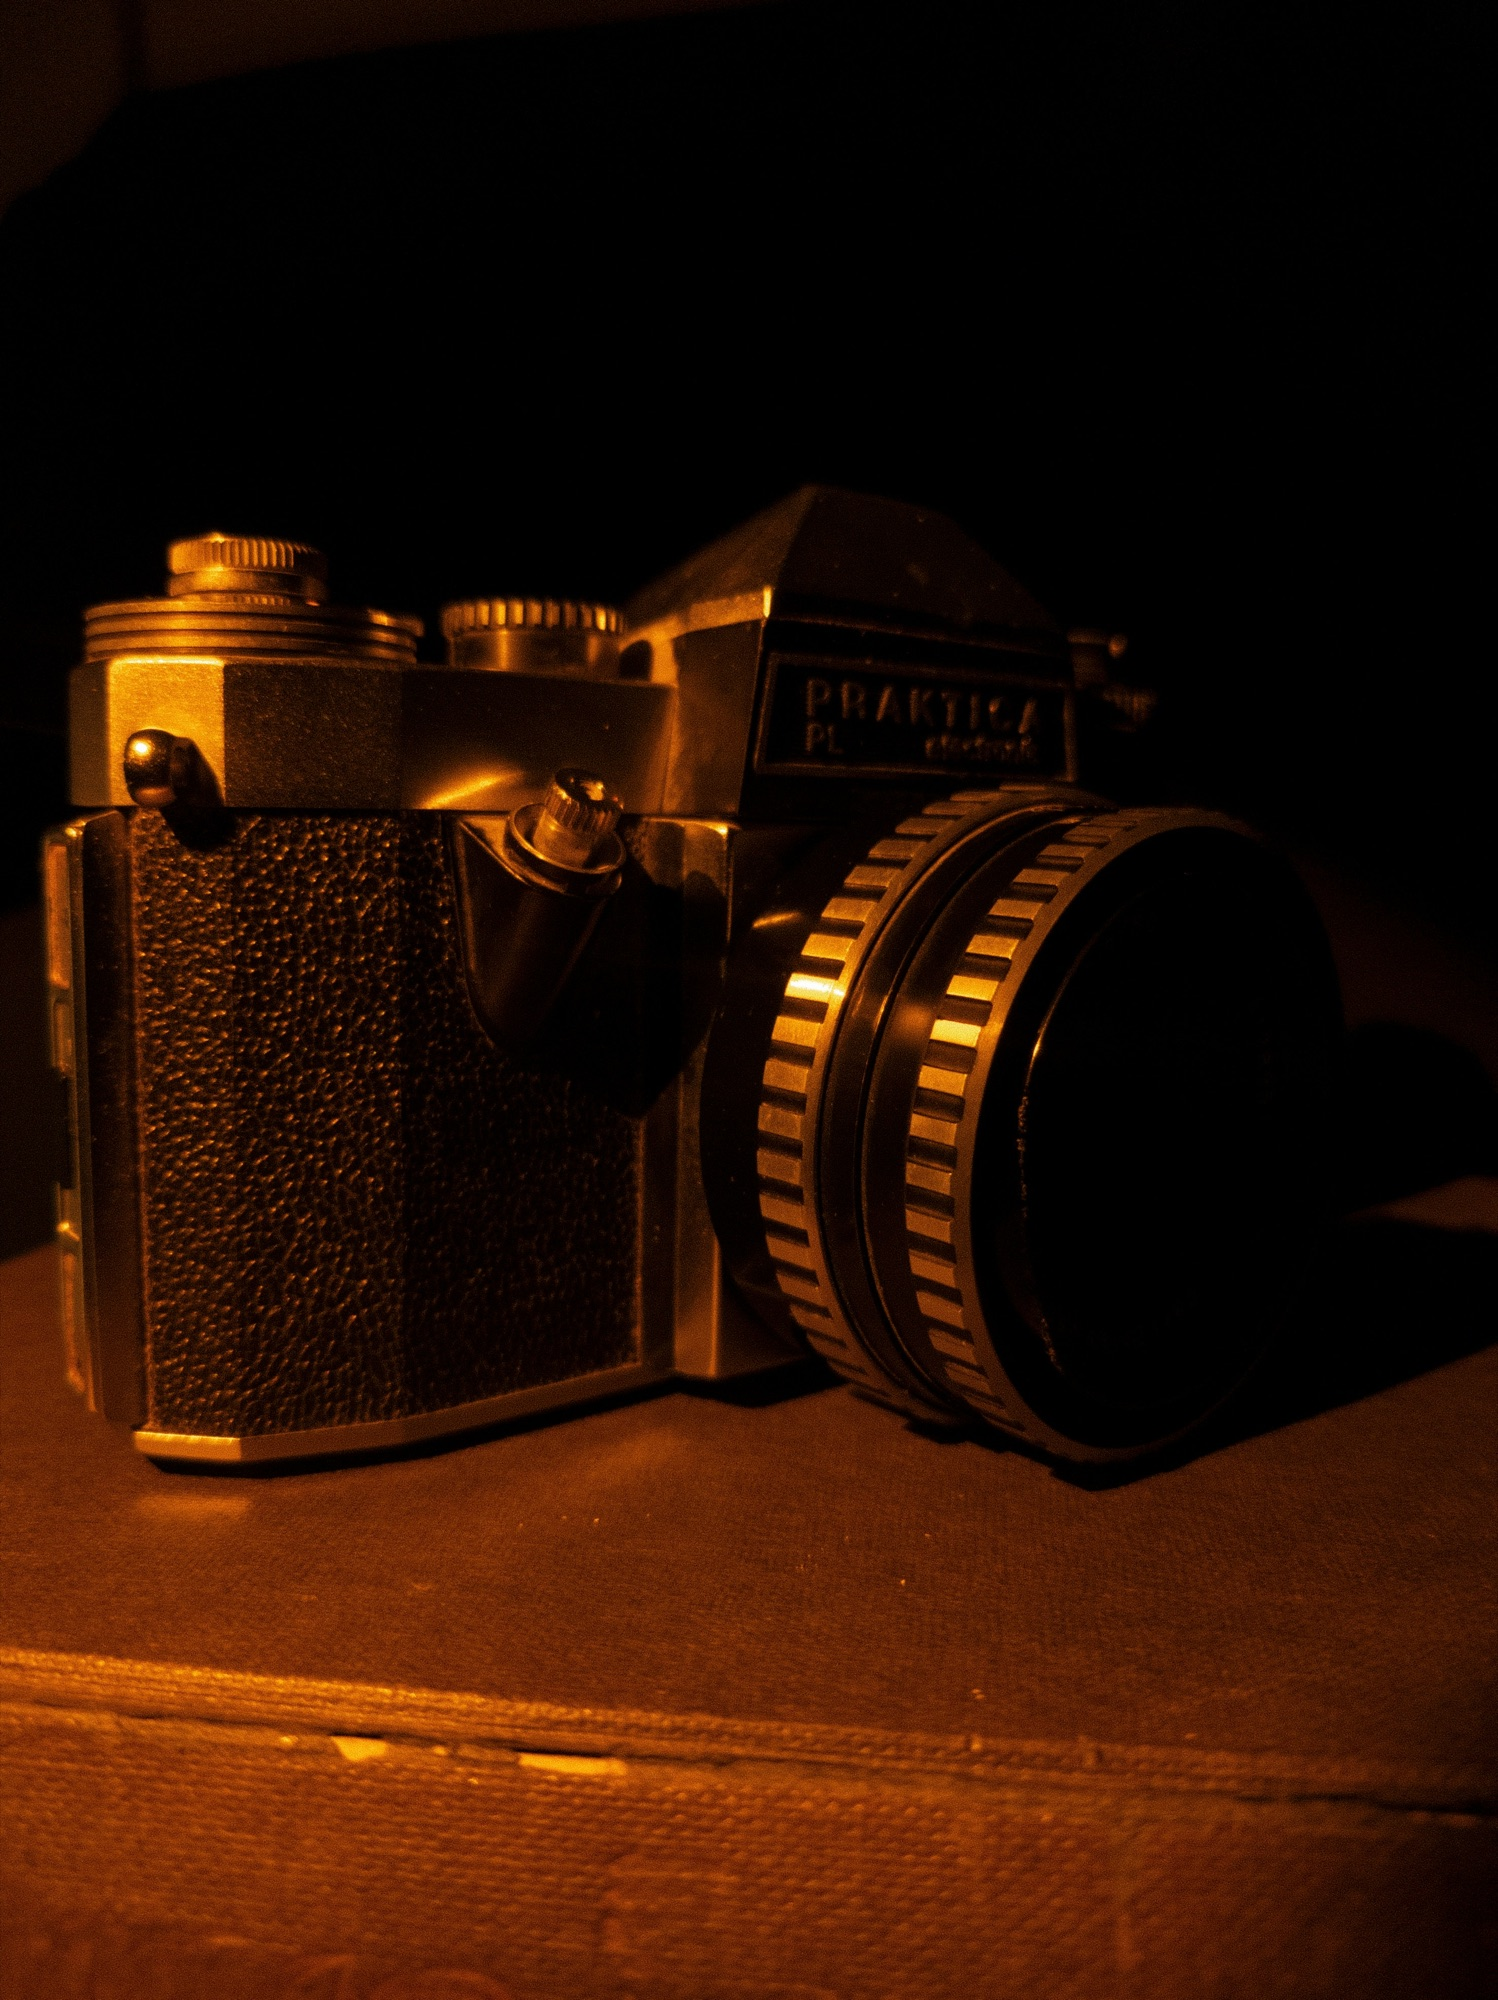
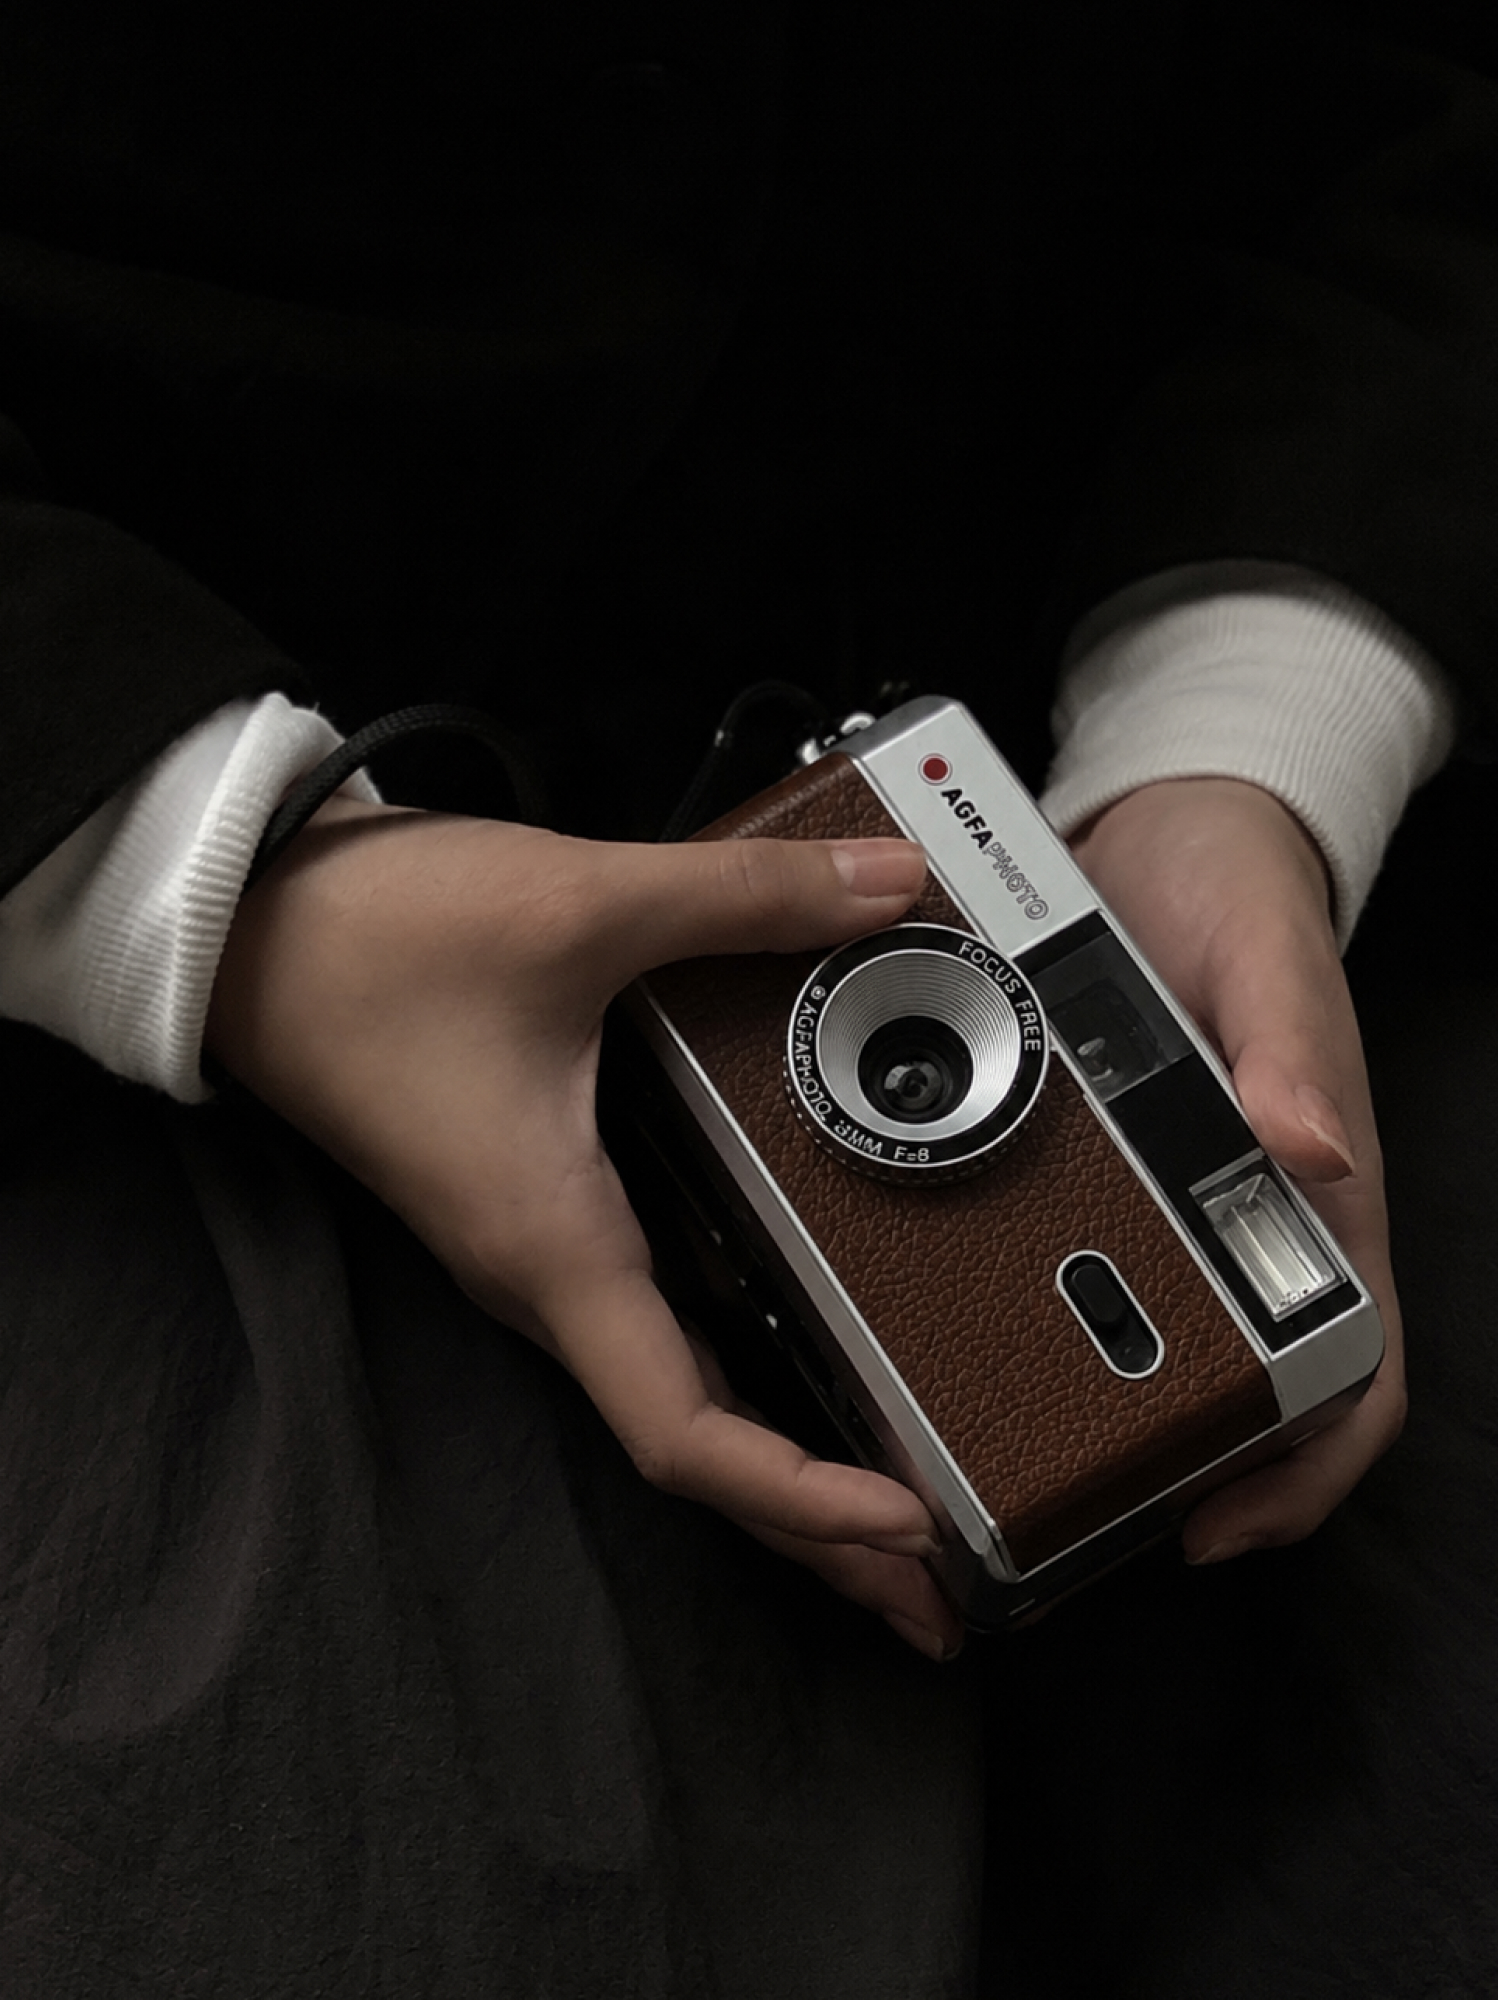
변경

diff --git a/product.html b/product.html
@@ -139,7 +139,7 @@
             <div class="pd-instrument-info">
               <h3 class="pd-instrument-name">S/A</h3>
               <span class="pd-instrument-sub">Texture &amp; Scent Note</span>
-              <p class="pd-instrument-desc">A dedicated travel record sheet composed of checklists and intuitive vocabulary (acidity, body, etc.) much like wine tasting notes, rather than a simple paragraph format. A candle infused with the scent of the travel destination helps you immerse yourself.</p>
+              <p class="pd-instrument-desc">We provide travel journaling sheets similar to wine tasting notes, consisting of a checklist and vocabulary (acidity, body, etc.). Scented candles infused with the scent of the travel destination help you immerse yourself more deeply in your journey.</p>
             </div>
           </div>
           <!-- C/P -->

diff --git a/styles.css b/styles.css
@@ -696,7 +696,7 @@
 
   .gallery-item-title {
     font-family: var(--font-heading);
-    font-size: 11px;
+    font-size: 16px;
     font-weight: 500;
     font-style: italic;
     color: var(--color-text-secondary);

diff --git a/product.css b/product.css
@@ -430,7 +430,7 @@
   gap: 8px;
   padding-top: 24px;
   flex: 1;
-  justify-content: space-between;
+  justify-content: flex-start;
 }
 
 .pd-instrument-name {
